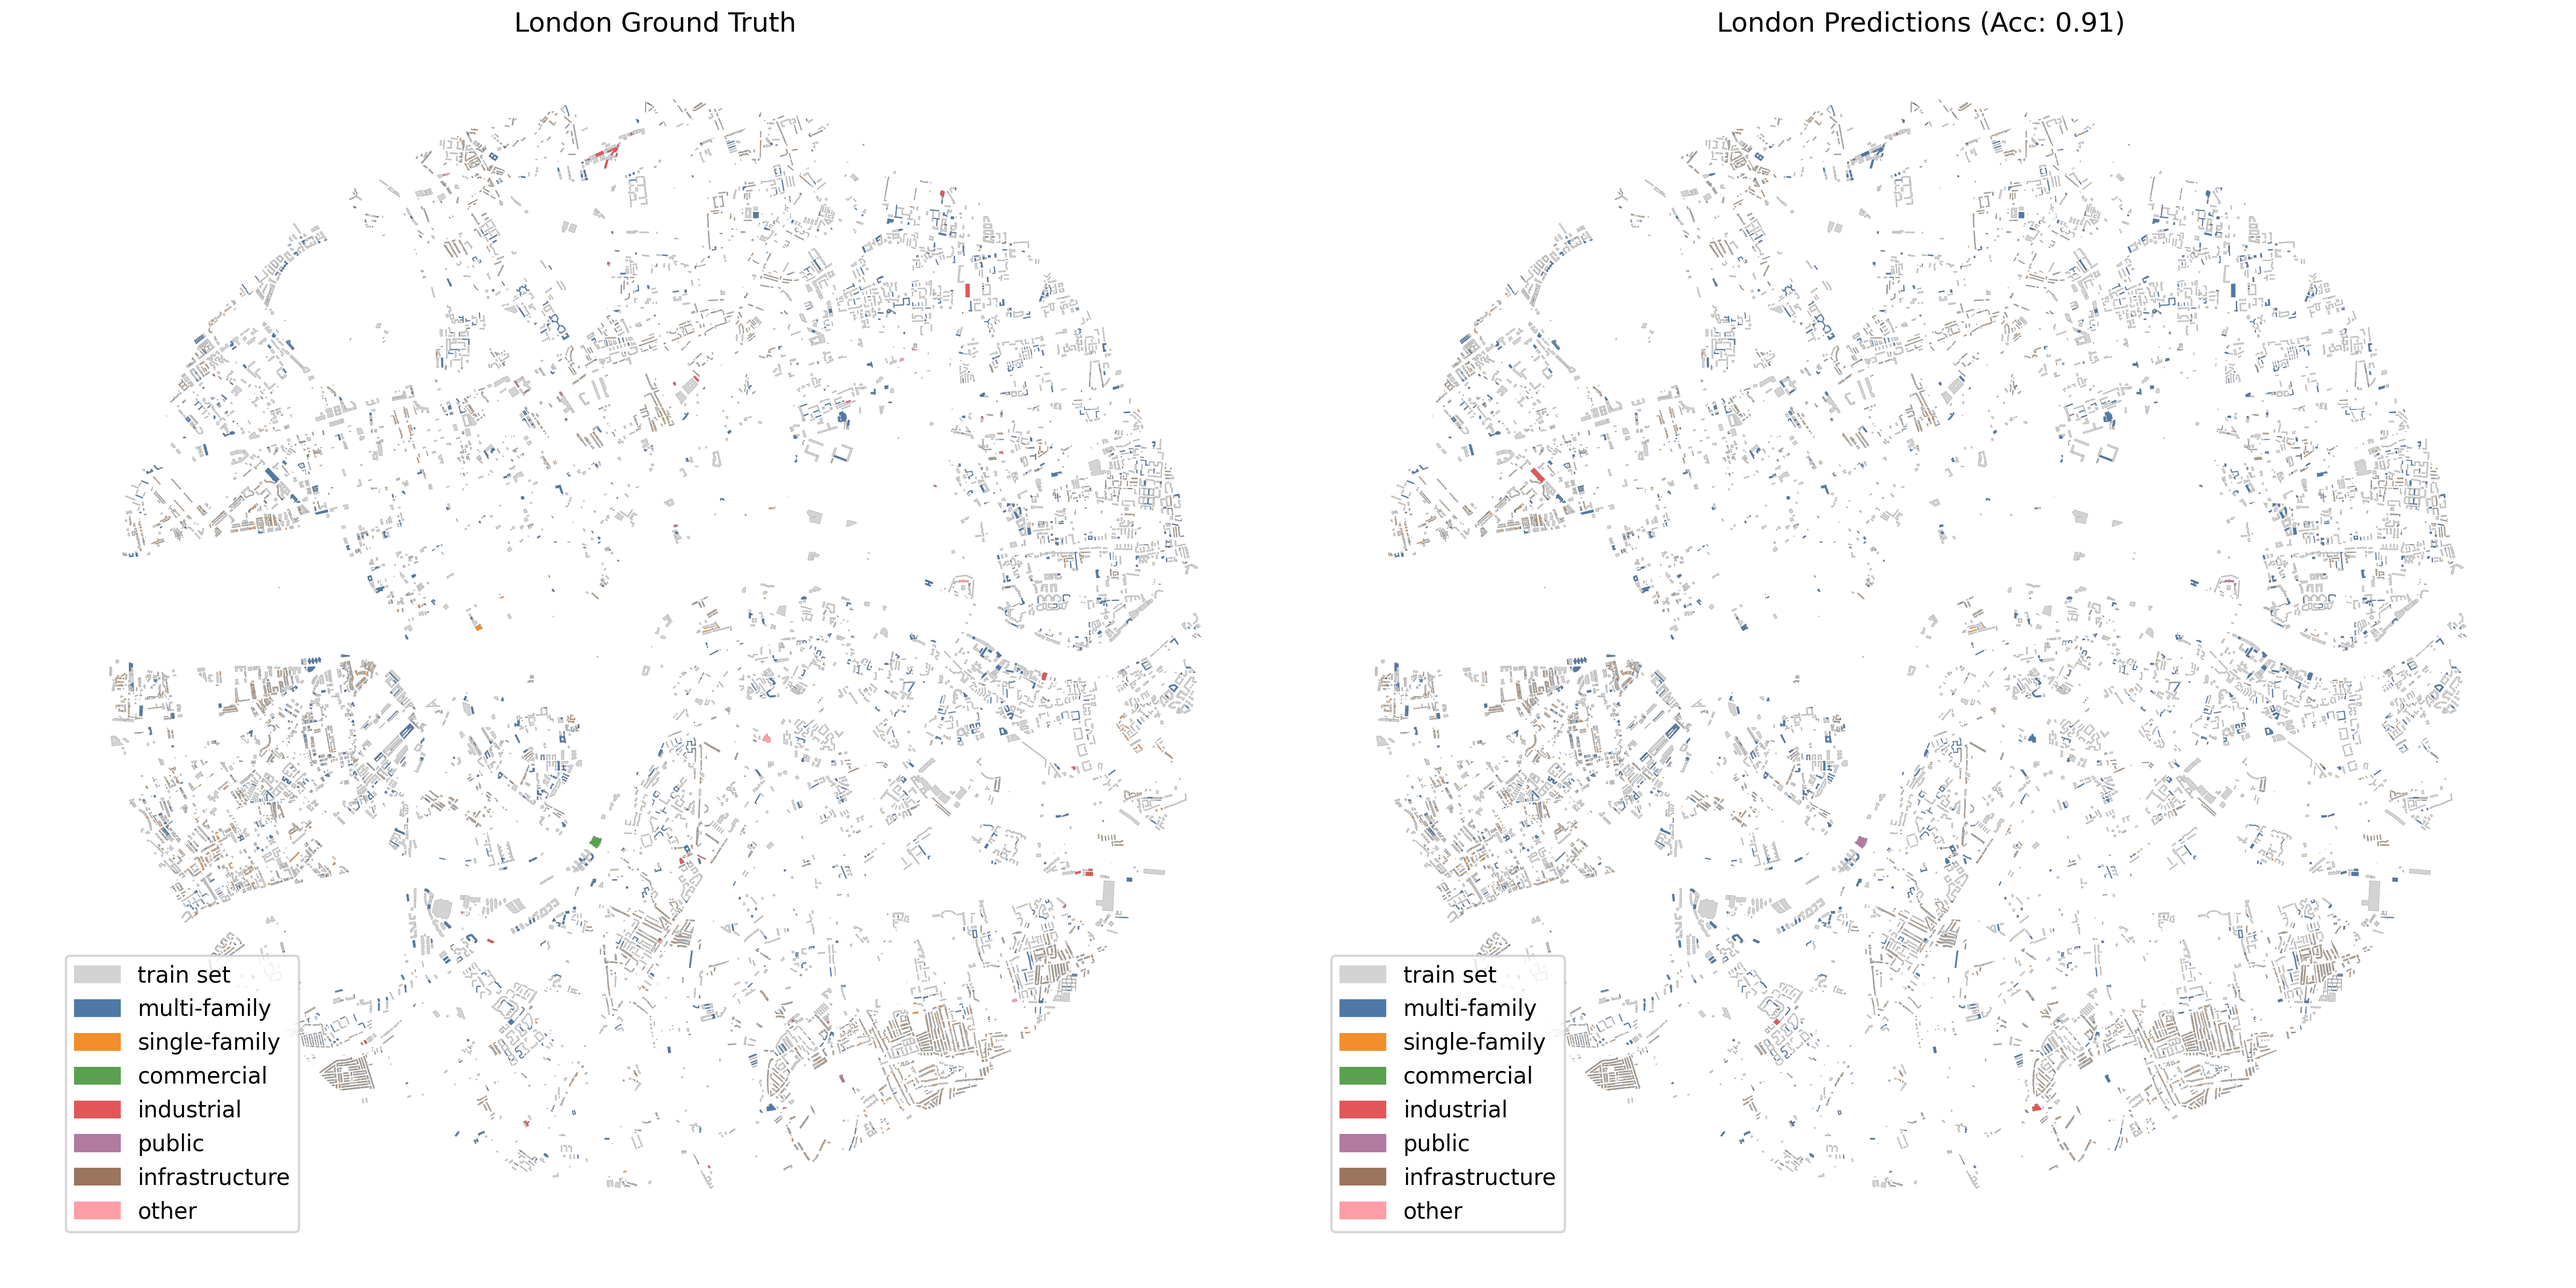
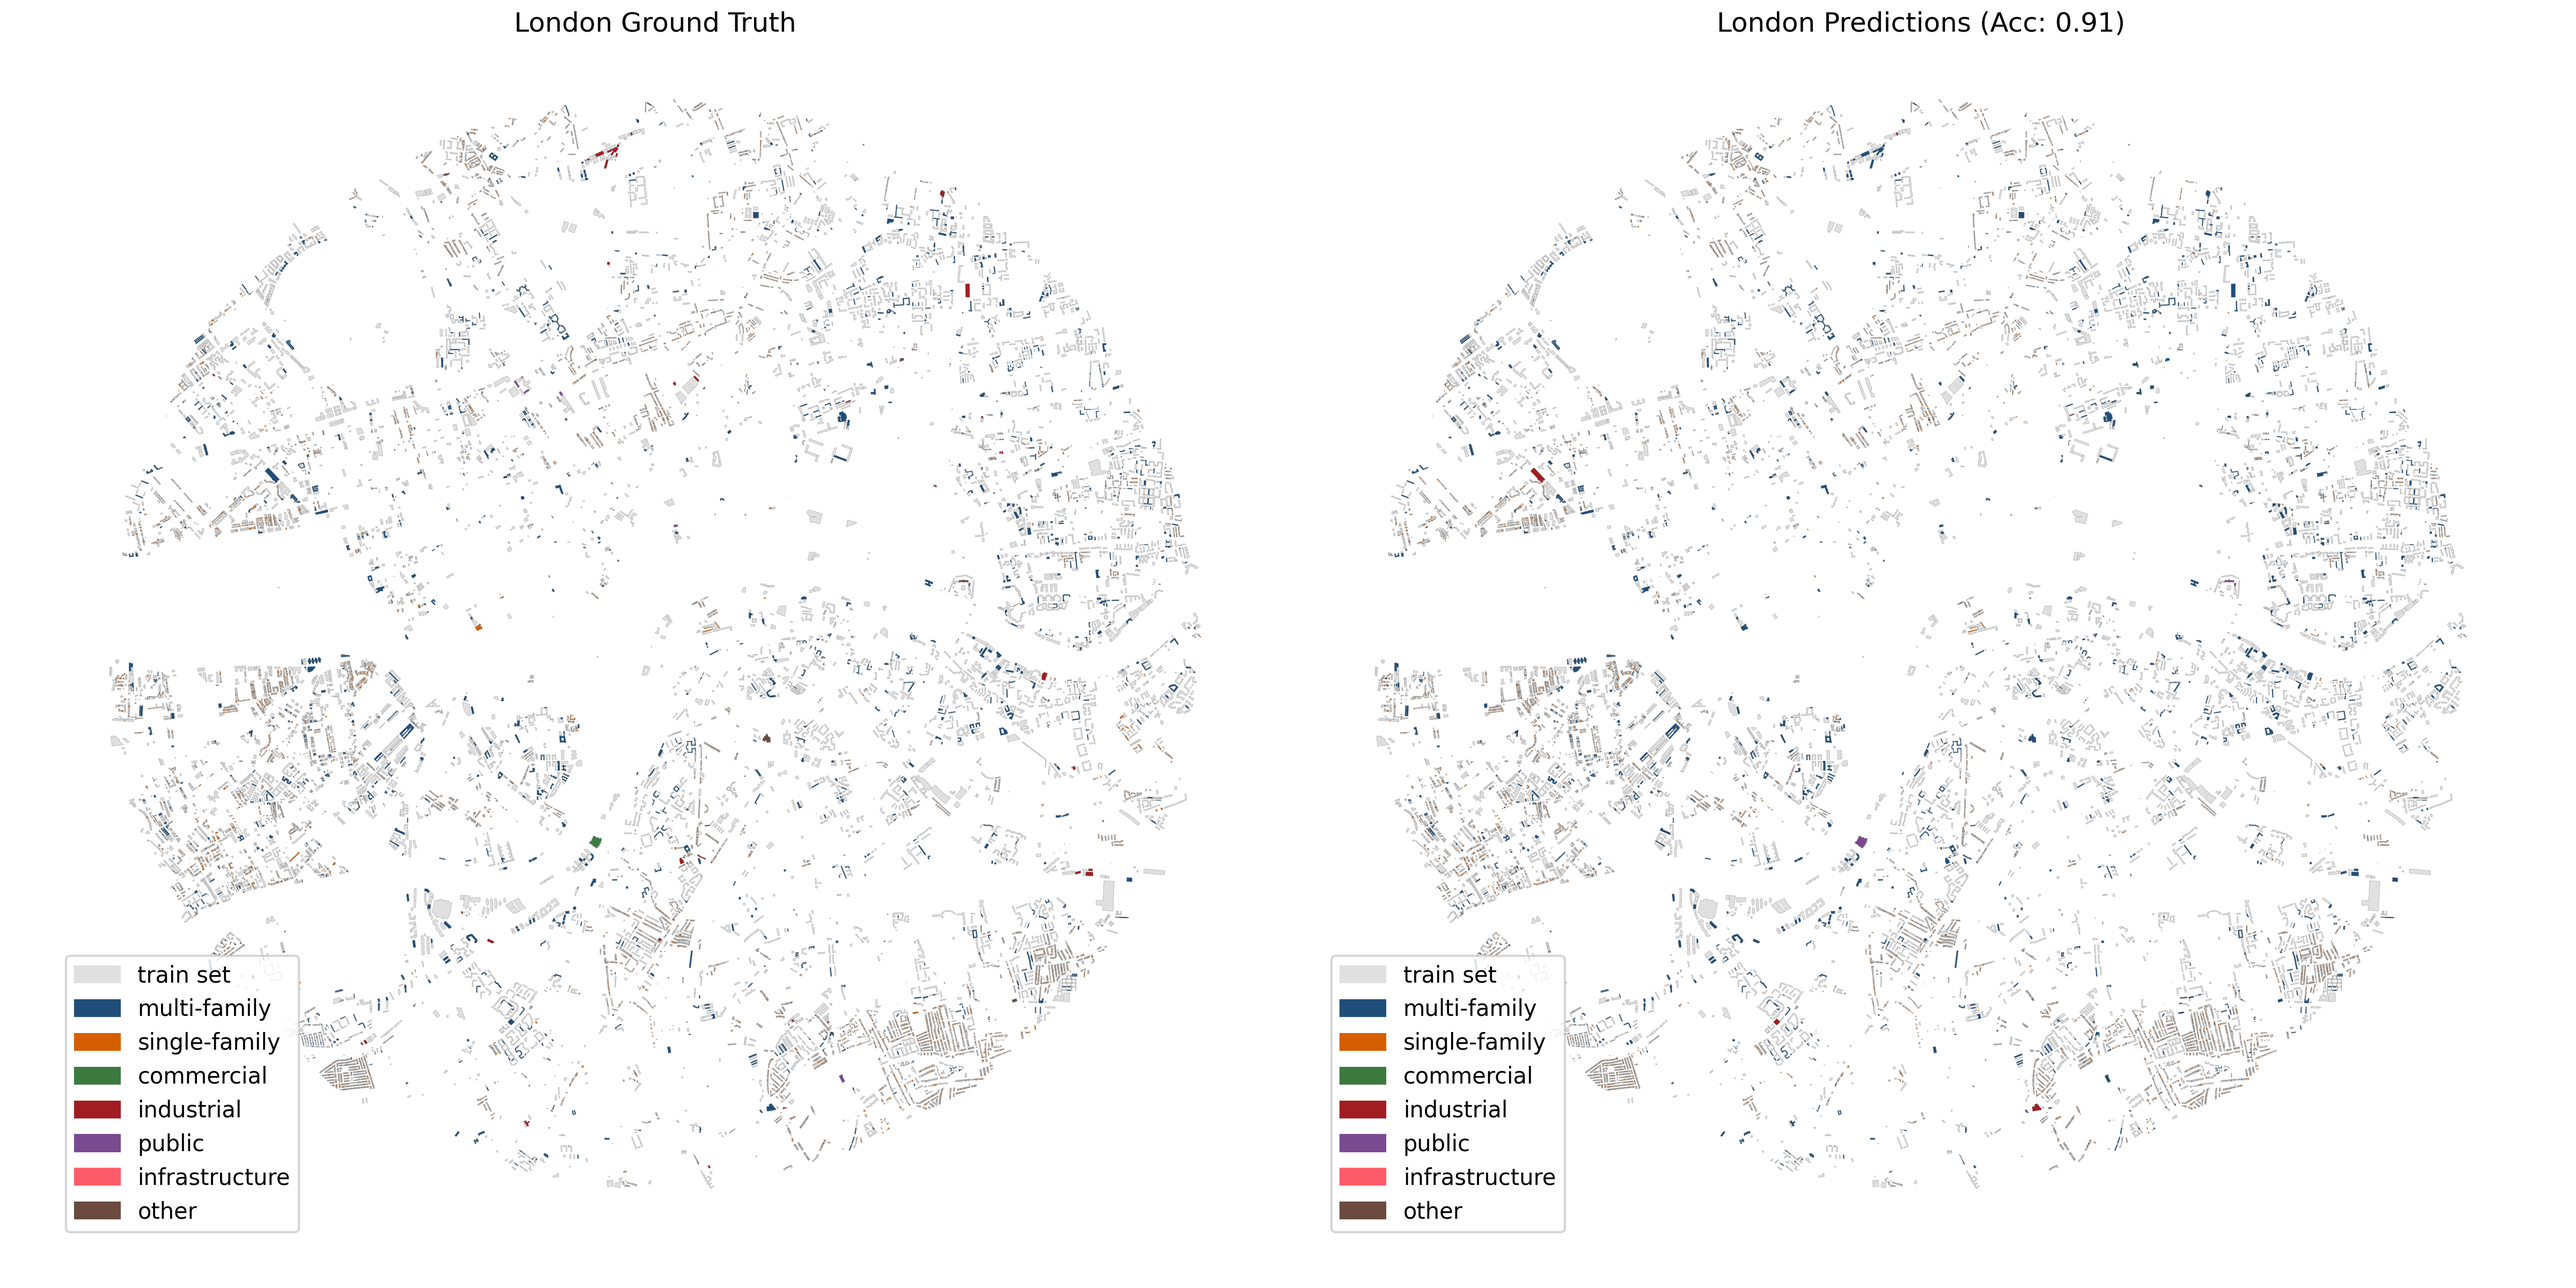
Enhances visualization with confusion matrix and feature importance
Adds confusion matrix heatmaps and feature importance bar charts
to improve analysis of model performance. Updates color scheme
for better visual distinction and adjusts legend handling for
consistency. Fixes minor issues in predictions plotting and ensures
high-resolution plot saving. Improves output clarity by including
multiple visualizations in the saved results.

Changed region(s): [[0.5, 0.7812, 0.5625, 0.9688], [0.0312, 0.7812, 0.0625, 0.9688]]

diff --git a/data_visualization.py b/data_visualization.py
@@ -10,7 +10,7 @@ from sklearn.exceptions import UndefinedMetricWarning
 from sklearn.model_selection import train_test_split
 from sklearn.preprocessing import LabelEncoder
 from sklearn.ensemble import RandomForestClassifier
-from sklearn.metrics import accuracy_score
+from sklearn.metrics import accuracy_score, confusion_matrix
 
 import matplotlib.pyplot as plt
 from matplotlib.patches import Patch
@@ -29,14 +29,18 @@ categories = [
     "other",
 ]
 color_map = {
-    "multi-family": "#4E79A7",
-    "single-family": "#F28E2B",
-    "commercial": "#59A14F",
-    "industrial": "#E15759",
-    "public": "#B07AA1",
-    "infrastructure": "#9C755F",
-    "other": "#FF9DA7",
+    "multi-family": "#1F4E79",
+    "single-family": "#D55E00",
+    "commercial": "#3C7A3F",
+    "industrial": "#A11D21",
+    "public": "#7A4A91",
+    "infrastructure": "#FF5C6A",
+    "other": "#6B4A3F",
 }
+
+# lighter gray for train set
+light_gray = "#e0e0e0"
+gray_patch = Patch(color=light_gray, label="train set")
 
 # Output folder
 output_dir = Path("images")
@@ -151,56 +155,89 @@ for city, sub in df.groupby("city"):
     y_pred = model.predict(X_te)
     acc = accuracy_score(y_true, y_pred)
 
-    # prepare test GeoDataFrame
+    # prepare GeoDataFrames
     sub_test = sub.loc[idx_te].copy()
     sub_test["pred"] = le_city.inverse_transform(y_pred)
     sub_train = sub.loc[idx_tr]
 
-    # legend patches
-    legend_patches = [Patch(color=color_map[c], label=c) for c in categories]
-    gray_patch = Patch(
-        color="lightgray", label="train set"
-    )  # "lightgray" is a valid color
-
-    fig, axes = plt.subplots(1, 2, figsize=(16, 8))  # "figsize" is a valid argument
-    # Ground truth + train
-    sub_train.plot(ax=axes[0], color="lightgray", linewidth=0.1, edgecolor="gray")
+    # === 1) side-by-side comparison (with lighter gray) ===
+    fig, axes = plt.subplots(1, 2, figsize=(16, 8))
+    # ground truth
+    sub_train.plot(ax=axes[0], color=light_gray, linewidth=0.1, edgecolor="gray")
     for cat in categories:
         mask = sub_test["building_main"] == cat
         if not sub_test[mask].empty:
             sub_test[mask].plot(
-                ax=axes[0],
-                color=color_map[cat],
-                linewidth=0.1,
-                edgecolor="gray",
+                ax=axes[0], color=color_map[cat], linewidth=0.1, edgecolor="gray"
             )
     axes[0].set_title(f"{city} Ground Truth")
-    axes[0].legend(handles=[gray_patch] + legend_patches, loc="lower left")
+    axes[0].legend(
+        handles=[gray_patch] + [Patch(color=color_map[c], label=c) for c in categories],
+        loc="lower left",
+    )
     axes[0].axis("off")
 
-    # Predictions + train  (fixed!)
-    sub_train.plot(ax=axes[1], color="lightgray", linewidth=0.1, edgecolor="gray")
+    # predictions
+    sub_train.plot(ax=axes[1], color=light_gray, linewidth=0.1, edgecolor="gray")
     for cat in categories:
-        mask = sub_test["pred"] == cat  # ← filter on your predictions now
+        mask = sub_test["pred"] == cat  # ← fix here
         if not sub_test[mask].empty:
             sub_test[mask].plot(
-                ax=axes[1],
-                color=color_map[cat],
-                linewidth=0.1,
-                edgecolor="gray",
+                ax=axes[1], color=color_map[cat], linewidth=0.1, edgecolor="gray"
             )
     axes[1].set_title(f"{city} Predictions (Acc: {acc:.2f})")
-    axes[1].legend(handles=[gray_patch] + legend_patches, loc="lower left")
+    axes[1].legend(
+        handles=[gray_patch] + [Patch(color=color_map[c], label=c) for c in categories],
+        loc="lower left",
+    )
     axes[1].axis("off")
 
-    axes[1].set_title(f"{city} Predictions (Acc: {acc:.2f})")
-    axes[1].legend(handles=[gray_patch] + legend_patches, loc="lower left")
-    axes[1].axis("off")
-
-    plt.tight_layout(pad=2.0)  # Increase padding to prevent title cropping
-    # save high-res
-    fig_path = output_dir / f"{city}_comparison.png"
-    fig.savefig(fig_path, dpi=300)
+    plt.tight_layout(pad=2.0)
+    (output_dir / f"{city}_comparison.png").write_bytes(
+        fig.canvas.tostring_argb()
+    )  # or fig.savefig(...)
+    fig.savefig(output_dir / f"{city}_comparison.png", dpi=300)
     plt.close(fig)
 
-print(f"Saved plots to {output_dir.resolve()}")
+    # === 2) confusion‐matrix heatmap (percent) ===
+    # numeric true/pred arrays are y_true, y_pred
+    labels = range(len(le_city.classes_))
+    cm = confusion_matrix(y_true, y_pred, labels=labels)
+    cm_pct = cm.astype(float) / cm.sum(axis=1, keepdims=True) * 100
+    fig2, ax2 = plt.subplots(figsize=(8, 6))
+    im = ax2.imshow(cm_pct, interpolation="nearest", cmap="Blues")
+    ax2.set_xticks(labels)
+    ax2.set_yticks(labels)
+    ax2.set_xticklabels(le_city.classes_, rotation=45, ha="right")
+    ax2.set_yticklabels(le_city.classes_)
+    for i in labels:
+        for j in labels:
+            ax2.text(
+                j,
+                i,
+                f"{cm_pct[i, j]:.1f}%",
+                ha="center",
+                va="center",
+                color="white" if cm_pct[i, j] > 50 else "black",
+            )
+    ax2.set_xlabel("Predicted")
+    ax2.set_ylabel("True")
+    ax2.set_title(f"{city} Confusion Matrix (%)")
+    fig2.colorbar(im, ax=ax2)
+    fig2.tight_layout()
+    fig2.savefig(output_dir / f"{city}_confusion_matrix.png", dpi=300)
+    plt.close(fig2)
+
+    # === 3) feature‐importance bar chart ===
+    importances = model.feature_importances_
+    fig3, ax3 = plt.subplots(figsize=(8, 6))
+    ax3.barh(features, importances)
+    ax3.set_xlabel("Relative Importance")
+    ax3.set_title(f"{city} Feature Importances")
+    fig3.tight_layout()
+    fig3.savefig(output_dir / f"{city}_feature_importance.png", dpi=300)
+    plt.close(fig3)
+
+print(
+    f"Saved comparison, confusion matrix, and feature‐importance plots to {output_dir.resolve()}"
+)
